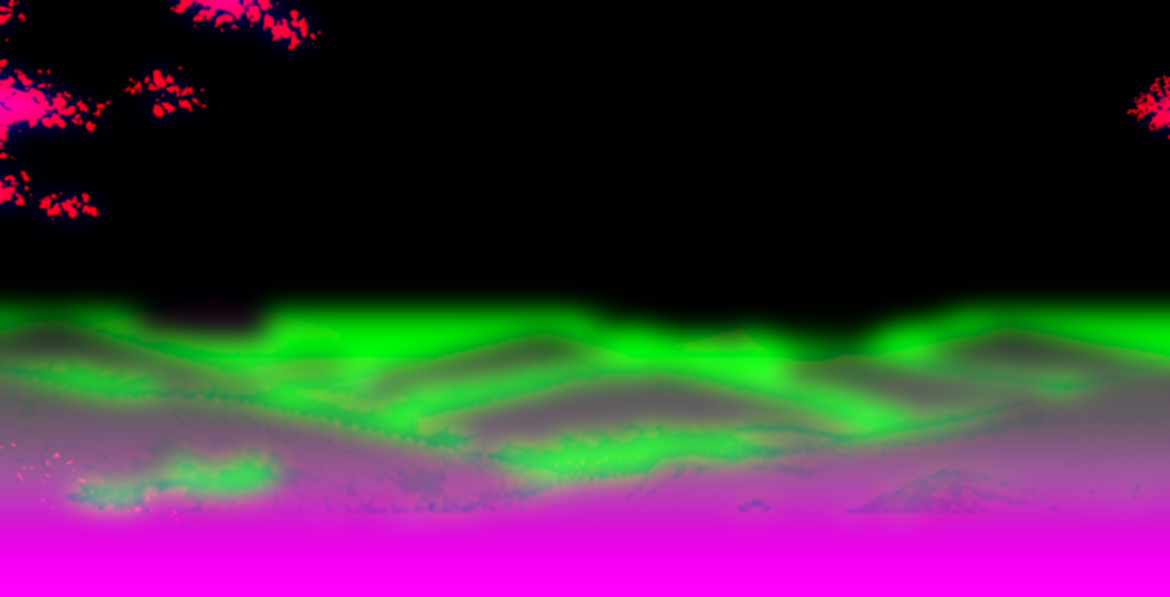
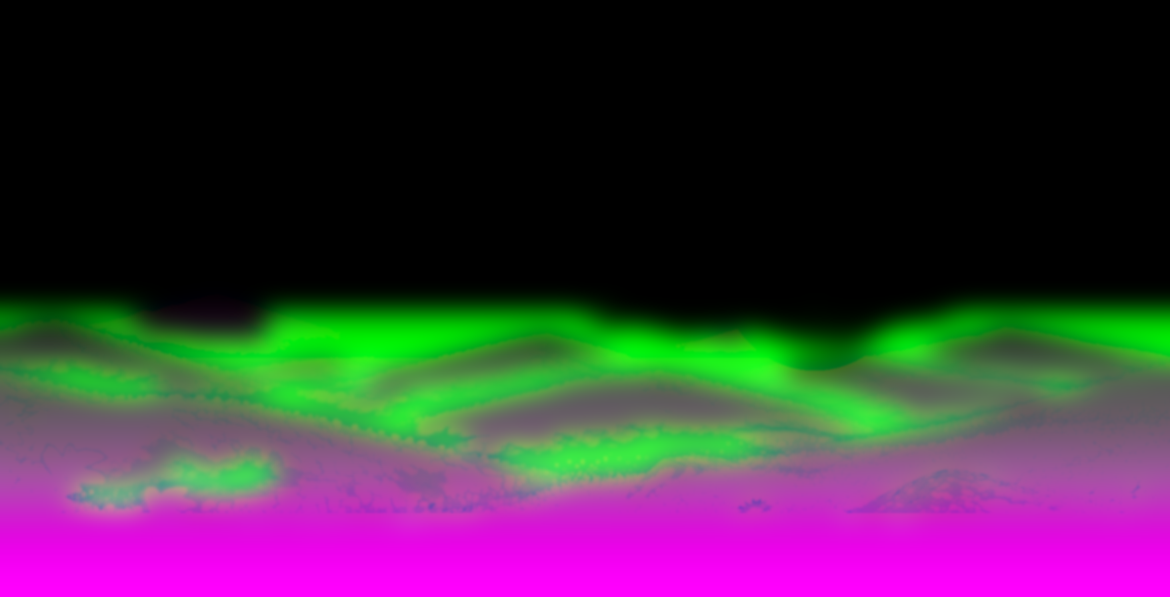
Hero: integrate props into the scene and put the headline behind the ridge
- Paint the baked foliage out of the sky (inpainted) and replace it with
  the swaying, slightly defocused branch cut-out framing the tent
- Sun + cloud cut-out over the plate's sun with screen blending and a
  soft edge, so it adds light instead of sitting on top
- Defocused foreground bushes as the nearest layer, anchored to the
  viewport, for real depth of field
- Warm scene light painted onto tent and stump through masks of their
  own silhouettes; light haze grade on props; stump set into the meadow
- Headline lowered so the second line passes behind the mountains
- Fix: global img max-width was clamping wide layers

Claude-Session: https://claude.ai/code/session_011JZeWaBakt16gM8TpLuBpR

diff --git a/components/hero-gl/hero-scene.tsx b/components/hero-gl/hero-scene.tsx
@@ -15,28 +15,42 @@ const DEPTH_SRC = '/img/hero/depth.webp';
  * Camp props are real cut-outs on their own layers (so they never warp).
  * Everything is placed in landscape-plate pixels; `d` is the layer's depth (0 far → 1 near).
  */
-type Item = { kind: 'img' | 'glow' | 'shadow'; x: number; y: number; w: number; h?: number; src?: string; ratio?: number; cls?: string };
-const LAYERS: { key: string; d: number; items: Item[] }[] = [
+type Item = {
+  kind: 'img' | 'glow' | 'shadow' | 'light';
+  x: number; y: number; w: number; h?: number;
+  src?: string; ratio?: number; cls?: string;
+  screen?: boolean; // anchored to the viewport (camera-side foreground) instead of the plate
+};
+type Layer = { key: string; d: number; zone: 'back' | 'front'; items: Item[] };
+
+const TENT = '/img/hero/tent.webp';
+const STUMP = '/img/hero/stump.webp';
+const LAYERS: Layer[] = [
+  // the sun sits behind the headline and only ever adds light (screen blend)
+  { key: 'sun', d: 0.0, zone: 'back', items: [{ kind: 'img', src: '/img/hero/sun.webp', x: 830, y: 311, w: 897, ratio: 2000 / 512, cls: 'scene__sun' }] },
   {
-    key: 'stump',
-    d: 0.8,
+    key: 'stump', d: 0.8, zone: 'front',
     items: [
-      { kind: 'shadow', x: 760, y: 728, w: 520, h: 36 },
-      { kind: 'img', src: '/img/hero/stump.webp', x: 704, y: 588, w: 618, ratio: 1930 / 537 },
+      { kind: 'shadow', x: 760, y: 790, w: 520, h: 36 },
+      { kind: 'img', src: STUMP, x: 704, y: 648, w: 618, ratio: 1930 / 537 },
+      { kind: 'light', src: STUMP, x: 704, y: 648, w: 618, ratio: 1930 / 537, cls: 'scene__light scene__light--stump' },
     ],
   },
   {
-    key: 'tent',
-    d: 0.72,
+    key: 'tent', d: 0.72, zone: 'front',
     items: [
       { kind: 'shadow', x: 1300, y: 684, w: 620, h: 44 },
-      { kind: 'img', src: '/img/hero/tent.webp', x: 1188, y: 275, w: 699, ratio: 1398 / 906 },
+      { kind: 'img', src: TENT, x: 1188, y: 275, w: 699, ratio: 1398 / 906 },
+      { kind: 'light', src: TENT, x: 1188, y: 275, w: 699, ratio: 1398 / 906, cls: 'scene__light scene__light--tent' },
       { kind: 'glow', x: 1405 - 70, y: 402 - 70, w: 140, h: 140, cls: 'glow glow--lantern' },
       { kind: 'glow', x: 1617 - 55, y: 582 - 55, w: 110, h: 110, cls: 'glow glow--inner' },
     ],
   },
+  // out-of-focus foreground: the nearest planes, strongest parallax
+  { key: 'bushes', d: 1.3, zone: 'front', items: [{ kind: 'img', src: '/img/hero/bushes.webp', x: 0, y: 0, w: 1, ratio: 2000 / 632, cls: 'scene__bushes', screen: true }] },
+  { key: 'branch', d: 1.15, zone: 'front', items: [{ kind: 'img', src: '/img/hero/branch.webp', x: 1330, y: -70, w: 600, ratio: 1309 / 952, cls: 'scene__branch' }] },
 ];
-const MUG: [number, number] = [1128, 594]; // rim centre, on the stump layer
+const MUG: [number, number] = [1128, 654]; // rim centre, on the stump layer
 const MUG_D = 0.8;
 const STEAM_UNIT = 44; // plate px
 
@@ -218,6 +232,27 @@ export const HeroScene = forwardRef<SceneHandle, { children?: ReactNode }>(funct
     };
   }, []);
 
+  const renderLayer = (L: Layer) => {
+    const i = LAYERS.indexOf(L);
+    return (
+      <div key={L.key} className={`scene__layer scene__layer--${L.key}`} ref={(n) => { layerEls.current[i] = n; }} aria-hidden="true">
+        {L.items.map((it, j) => {
+          const h = it.h ?? it.w / (it.ratio ?? 1);
+          const data = `${it.x},${it.y},${it.w},${h}`;
+          if (it.kind === 'img') {
+            // eslint-disable-next-line @next/next/no-img-element -- pre-optimised cut-out with alpha
+            return <img key={j} data-item={it.screen ? undefined : data} src={it.src} alt="" className={`scene__prop ${it.cls ?? ''}`} decoding="async" />;
+          }
+          if (it.kind === 'light') {
+            const m = `url(${it.src})`;
+            return <span key={j} data-item={data} className={it.cls} style={{ WebkitMaskImage: m, maskImage: m }} />;
+          }
+          return <span key={j} data-item={data} className={it.kind === 'shadow' ? 'scene__shadow' : it.cls} />;
+        })}
+      </div>
+    );
+  };
+
   return (
     <div className="scene" ref={wrap}>
       {/* eslint-disable-next-line @next/next/no-img-element -- same file the shader samples, so it downloads once */}
@@ -230,21 +265,10 @@ export const HeroScene = forwardRef<SceneHandle, { children?: ReactNode }>(funct
         decoding="async"
       />
       <canvas className="scene__gl scene__gl--back" ref={back} aria-hidden="true" />
+      {LAYERS.filter((L) => L.zone === 'back').map(renderLayer)}
       {children}
       <canvas className="scene__gl scene__gl--front" ref={front} aria-hidden="true" />
-      {LAYERS.map((L, i) => (
-        <div key={L.key} className={`scene__layer scene__layer--${L.key}`} ref={(n) => { layerEls.current[i] = n; }} aria-hidden="true">
-          {L.items.map((it, j) => {
-            const h = it.h ?? it.w / (it.ratio ?? 1);
-            const data = `${it.x},${it.y},${it.w},${h}`;
-            if (it.kind === 'img') {
-              // eslint-disable-next-line @next/next/no-img-element -- pre-optimised cut-out with alpha
-              return <img key={j} data-item={data} src={it.src} alt="" className="scene__prop" decoding="async" fetchPriority="high" />;
-            }
-            return <span key={j} data-item={data} className={it.kind === 'shadow' ? 'scene__shadow' : it.cls} />;
-          })}
-        </div>
-      ))}
+      {LAYERS.filter((L) => L.zone === 'front').map(renderLayer)}
     </div>
   );
 });

diff --git a/app/globals.css b/app/globals.css
@@ -202,7 +202,19 @@ em { font-style: italic; }
 .scene__layer { position: absolute; inset: 0; transform-origin: 50% 50%; will-change: transform; pointer-events: none; }
 .scene:not(.is-placed) .scene__layer { visibility: hidden; }
 .scene__layer > * { position: absolute; display: block; }
-.scene__prop { user-select: none; -webkit-user-drag: none; }
+.scene__prop { max-width: none; user-select: none; -webkit-user-drag: none; filter: saturate(0.93) contrast(0.96) brightness(1.02); }
+/* light that only adds: the sun cut-out glows into the sky rather than sitting on it */
+.scene__sun { mix-blend-mode: screen; opacity: 0.62; filter: blur(2.5px) saturate(0.85);
+  -webkit-mask-image: linear-gradient(180deg, #000 62%, transparent 92%); mask-image: linear-gradient(180deg, #000 62%, transparent 92%); }
+/* scene light painted onto the props, clipped to their exact silhouettes */
+.scene__light { mix-blend-mode: soft-light; -webkit-mask-size: 100% 100%; mask-size: 100% 100%; -webkit-mask-repeat: no-repeat; mask-repeat: no-repeat; }
+.scene__light--tent { background: linear-gradient(100deg, rgba(255, 214, 150, 0.95) 0%, rgba(255, 196, 130, 0.35) 30%, rgba(40, 30, 20, 0.15) 75%); }
+.scene__light--stump { background: linear-gradient(170deg, rgba(255, 220, 160, 0.85) 0%, rgba(255, 200, 140, 0.25) 40%, rgba(30, 40, 25, 0.2) 100%); }
+/* near-camera foliage: slightly defocused, breathing in the breeze */
+.scene__branch { transform: scaleX(-1); transform-origin: 50% 0%; filter: blur(0.7px) saturate(0.95); animation: sway 7.5s ease-in-out infinite alternate; }
+@keyframes sway { 0% { transform: scaleX(-1) rotate(-1.1deg); } 100% { transform: scaleX(-1) rotate(1.3deg) skewX(0.6deg); } }
+.scene__bushes { left: 0; bottom: -22%; width: 100%; height: auto; filter: brightness(0.9) saturate(0.9); }
+@media (max-width: 640px) { .scene__bushes { left: -60%; width: 220%; bottom: -12%; } }
 .scene__shadow { border-radius: 50%; background: radial-gradient(closest-side, rgba(12, 28, 18, 0.5), rgba(12, 28, 18, 0.18) 60%, transparent); }
 .glow { border-radius: 50%; mix-blend-mode: screen; background: radial-gradient(closest-side, rgba(255, 196, 120, 0.62), rgba(255, 168, 80, 0.2) 45%, transparent 72%); animation: flicker 3.4s linear infinite; }
 .glow--inner { animation-duration: 2.7s; animation-delay: -1.2s; }
@@ -220,11 +232,10 @@ em { font-style: italic; }
 .hero__title {
   font-family: var(--f-display); font-weight: 400; color: var(--green-900);
   font-size: clamp(3.4rem, 10.2vw, 11.4rem); line-height: 0.9; letter-spacing: -0.03em; margin: 0;
-  transform: translateY(-0.16em); /* only the descenders tuck behind the near ridge */
+  transform: translateY(0.04em); /* the lower part of the second line sits behind the ridge */
   text-shadow: 0 2px 40px rgba(255, 244, 222, 0.35);
 }
 .hero__title em { color: #b7862d; }
-.hero__top { position: absolute; inset: 0 0 auto 0; height: 22%; pointer-events: none; z-index: 3; background: linear-gradient(180deg, rgba(240, 236, 228, 0.72), rgba(240, 236, 228, 0.28) 55%, transparent); }
 .hero__fade { position: absolute; inset: auto 0 0 0; height: 38%; pointer-events: none; background: linear-gradient(180deg, transparent, rgba(6, 38, 25, 0.28) 45%, rgba(6, 38, 25, 0.78)); }
 .hero__shade { position: absolute; inset: 0; background: var(--green-950); opacity: 0; visibility: hidden; pointer-events: none; }
 

diff --git a/components/sections/hero.tsx b/components/sections/hero.tsx
@@ -47,6 +47,9 @@ export function Hero() {
       gsap.set(split.lines, { yPercent: 112 });
       const tl = gsap.timeline();
       if (s) tl.to(s, { intro: 1, duration: 3.4, ease: 'power2.out' }, 0);
+      tl.from(q('.scene__sun'), { yPercent: 26, duration: 3.6, ease: 'power3.out' }, 0)
+        .from(q('.scene__branch'), { xPercent: 8, yPercent: -10, duration: 2.6, ease: 'power3.out' }, 0.1)
+        .from(q('.scene__bushes'), { yPercent: 14, duration: 2.4, ease: 'power3.out' }, 0.1);
       tl.to(split.lines, { yPercent: 0, duration: 1.8, stagger: 0.14, ease: 'power4.out' }, 0.45)
         .from(q('.hero__bottom > *'), { autoAlpha: 0, y: 14, duration: 1.3, stagger: 0.1, ease: 'power3.out' }, 1.1);
     },
@@ -63,7 +66,6 @@ export function Hero() {
             </h1>
           </div>
         </HeroScene>
-        <div className="hero__top" aria-hidden="true" />
         <div className="hero__fade" aria-hidden="true" />
         <div className="hero__shade" aria-hidden="true" />
         <div className="hero__bottom">

diff --git a/components/hero-gl/renderer.ts b/components/hero-gl/renderer.ts
@@ -11,7 +11,7 @@ export interface SceneState {
 export const PLATE = {
   w: 1755,
   h: 896,
-  sun: [1215, 408] as [number, number],
+  sun: [1222, 417] as [number, number],
   ridge: 0.632, // plate y where the near hills begin (the headline tucks behind it)
 };
 

diff --git a/README.md b/README.md
@@ -39,12 +39,12 @@ lib/
   gsap.ts              GSAP + ScrollTrigger + SplitText registration, Lenis handle, scrollToId
   site.ts · data.ts    brand/contact details · content
 public/img/            logo mark and wordmarks (dark + light)
-public/img/hero/       plate.webp + depth.webp (landscape), tent.webp + stump.webp (cut-out props)
+public/img/hero/       plate.webp + depth.webp (landscape), sun/tent/stump/bushes/branch.webp (cut-out layers)
 ```
 
 ### Hero scene
 - **Landscape:** `public/img/hero/plate.webp`, rendered by `components/hero-gl/shader.ts` with depth parallax, fog, sun shafts and grade. It reads `depth.webp`: R = sharp depth for headline occlusion, G = fog mask, B = smooth depth for parallax.
-- **Camp props:** `tent.webp` and `stump.webp` are real cut-outs on their own DOM layers, so they never warp. Their positions and depths live in `LAYERS` in `components/hero-gl/hero-scene.tsx`, in landscape-plate pixels. They move with the same camera maths as the shader (`camera()` and `layerTransform()` in `renderer.ts`).
+- **Layers:** `sun.webp` (screen-blended, behind the headline), `tent.webp`, `stump.webp`, `bushes.webp` (defocused foreground, anchored to the viewport) and `branch.webp` (swaying) are real cut-outs on their own DOM layers, so they never warp. Warm scene light is painted onto the props through CSS masks of their own silhouettes. Their positions and depths live in `LAYERS` in `components/hero-gl/hero-scene.tsx`, in landscape-plate pixels. They move with the same camera maths as the shader (`camera()` and `layerTransform()` in `renderer.ts`).
 - **Steam:** drawn in the near-layer pass and tracks the mug's live position. Lantern glows are CSS layers with flicker.
 - **Fallbacks:** without WebGL, or with reduced motion, the static plate and prop layers are shown.
 
